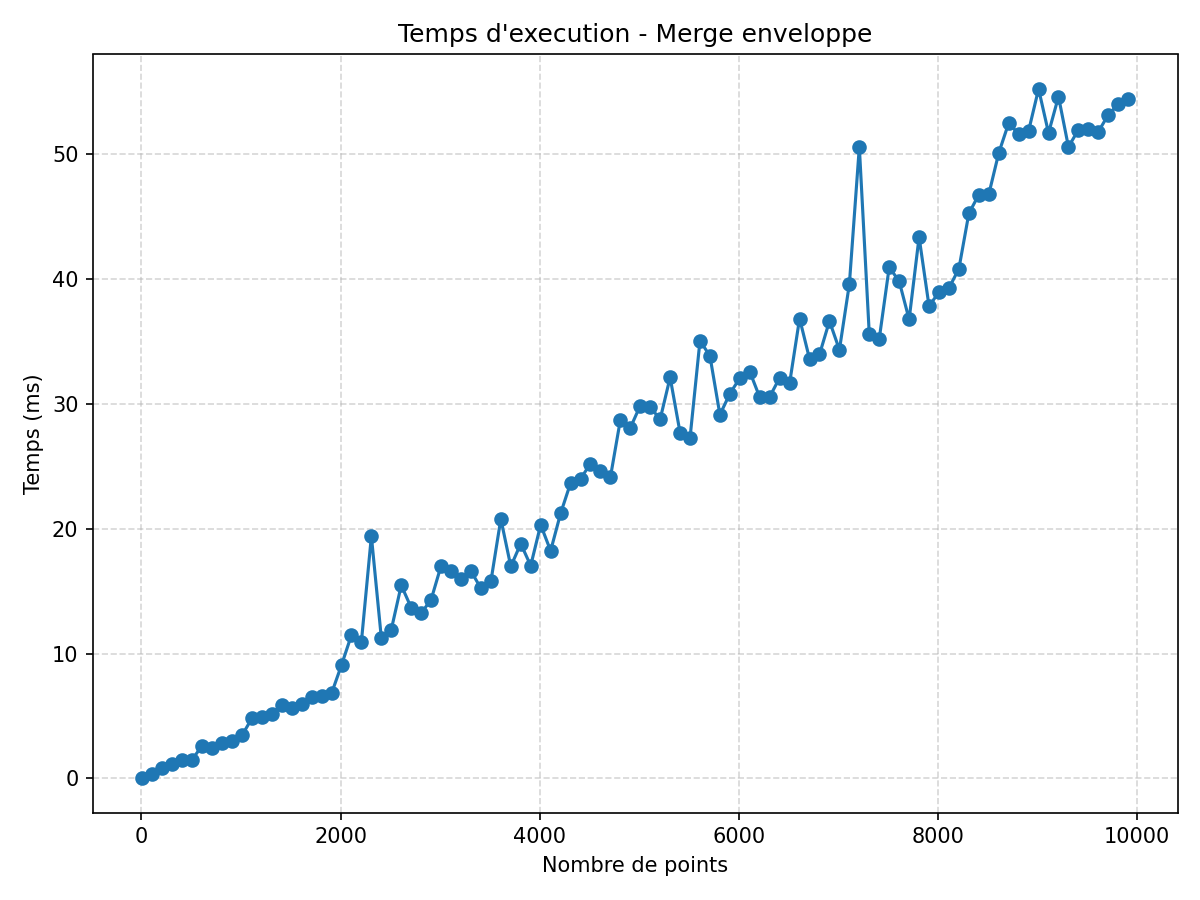
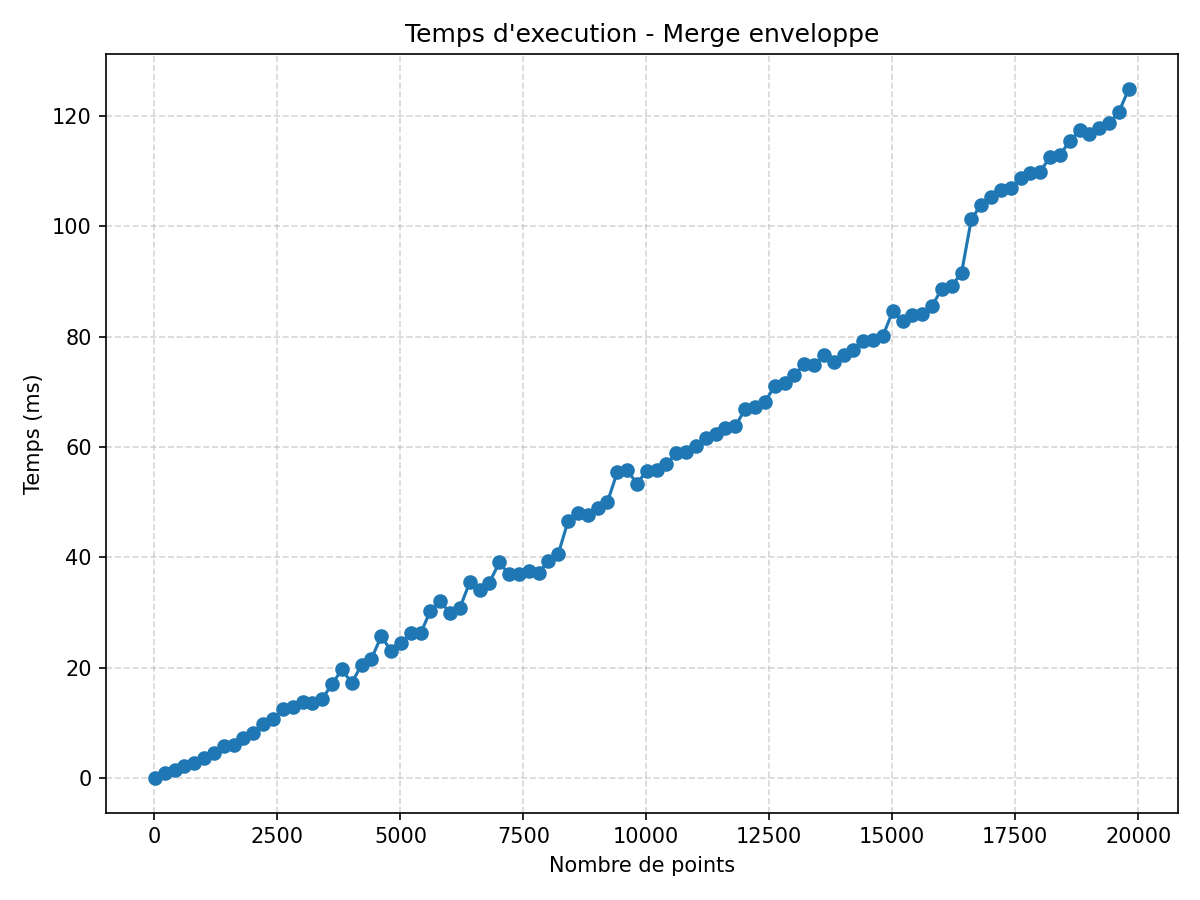
changes

diff --git a/utils.py b/utils.py
@@ -26,12 +26,12 @@ def nuage(n, xmin=-10, xmax=10, ymin=-10, ymax=10):
     return [[rd.uniform(xmin, xmax), rd.uniform(ymin, ymax)] for _ in range(n)]
 
 
-def benchmark(func, points, repeat=3):
-    """Evalue un algorithme: 1/start timer 2/rejoue repeat fois 3/retour median."""
+def benchmark(func, points, repeat=5):
+    """Evalue un algorithme: moyenne du temps sur repeat executions."""
     times = []
     for _ in range(repeat):
         start = t.time()
         enveloppe = func(points)
         times.append((t.time() - start) * 1000)
-    elapsed = stats.median(times)
+    elapsed = stats.mean(times)
     return elapsed, len(enveloppe)

diff --git a/main.py b/main.py
@@ -22,7 +22,7 @@ from plots.compare import plot_temps, plot_hulls as plot_enveloppes, plot_merge_
 
 def main():
     
-    tailles = [10 + i*100 for i in range(100)]  # Tailles de 10 a 910 points.
+    tailles = [10 + i*200 for i in range(100)]  
     algos = [
         ("Monotone Chain", enveloppe_monotone),
         ("QuickHull", enveloppe_quickhull),
